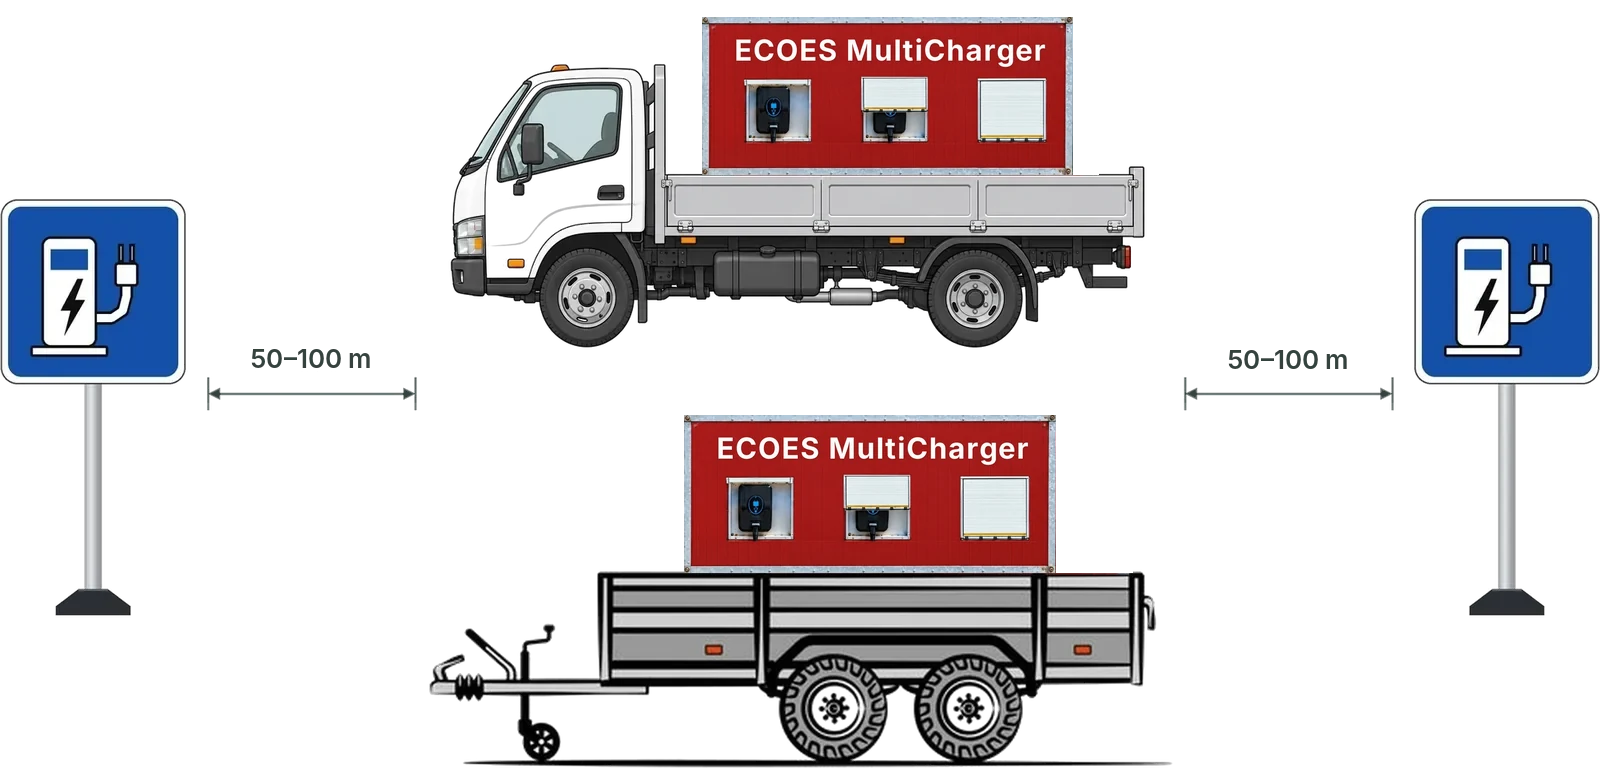
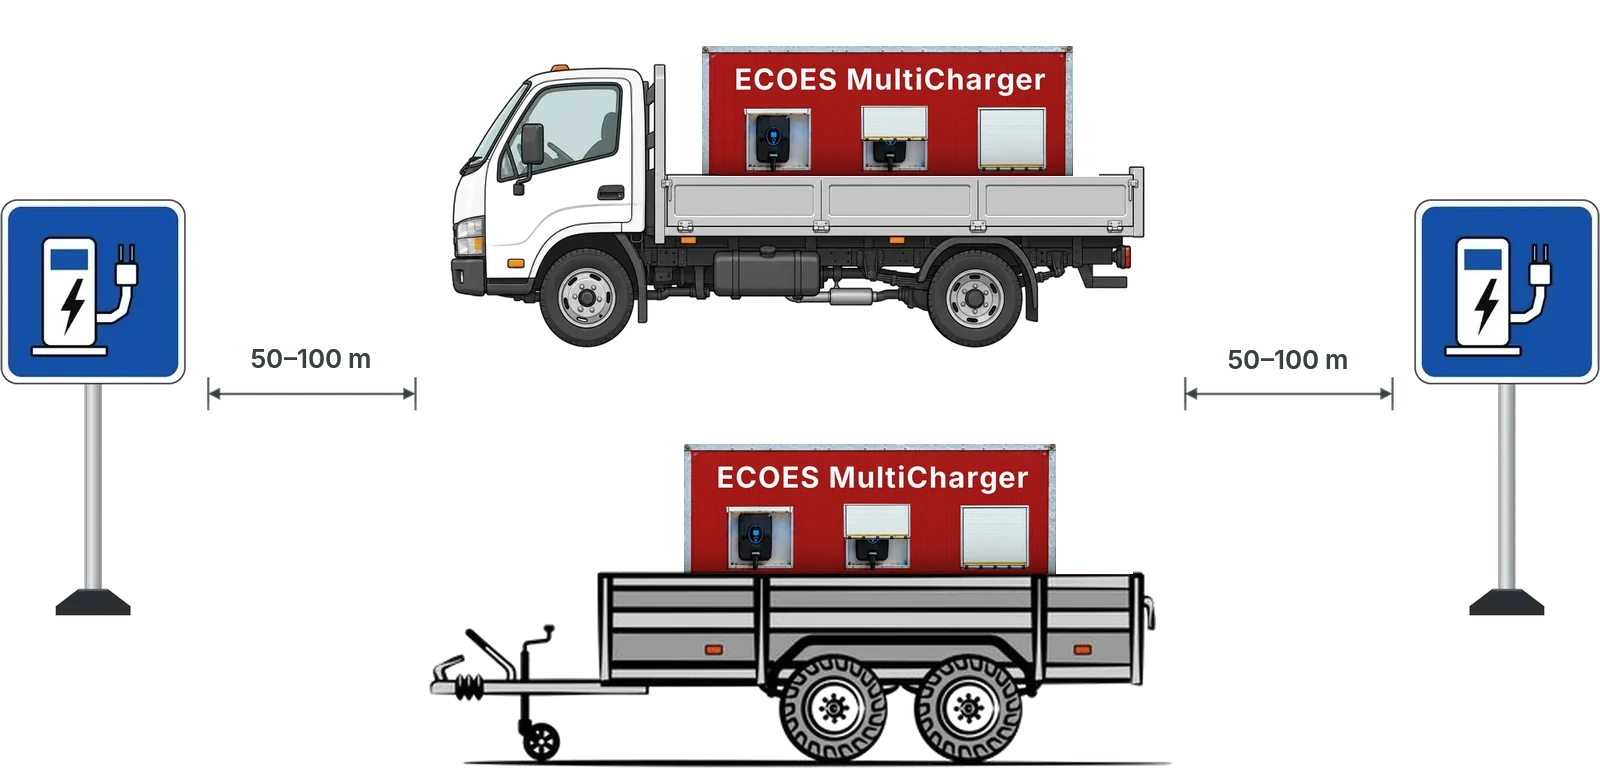
Box scene: the box set inside the truck bed and the trailer
The box now stands behind the side boards (its bottom hidden, the hatches
whole), with the bed walls' shade on its lower part and a narrow shadow
under the boards' top rail.

Claude-Session: https://claude.ai/code/session_01GEpPHxRAoV4DXBRX1UR8qC

Changed region(s): [[0.4375, 0.0, 0.6875, 0.25], [0.4062, 0.5312, 0.6875, 0.75]]

diff --git a/CLAUDE.md b/CLAUDE.md
@@ -93,6 +93,6 @@ History: v1 (2026-11-03 morning, the impeccable roll's "special-equipment body":
 - Home strengths (9 panes) quote the client's own headings and sentences from the Franchise, MultiCharger and Box pages (EN translations ours); the payback compartment and the load meter use the client's MultiCharger table (gross profit per month = per day × 30).
 - Financing (`financing/`, client 2026-11-12, their Word document for https://franchise.ecoes.eu/financing/; "a new section 'Finance'", named Financing / Финансиране in the menu): head = the title + "Get an offer" (`?topic=franchise`) beside the globe drawing (the About us head layout, `.page-hero--about.page-hero--financing`); `.split--financing`: the client's intro sentence as the sticky heading (`.section-title--sub`, smaller there: 20–26px), the four options as `ol.pillars.pillars--numbered` in a glass pane (`.cert-pane`), "Конкретните финансови параметри…" as `.notice`; `.closing` with the client's two closing sentences (lead + statement) and Pre-order + Get an offer. BG verbatim, EN ours. Fixed and reported: title and closing sentences from capitals to sentence case (as on the other pages); the colons after the four item titles dropped (they are headings now); the product names in regular weight, only "50% от покупната цена" bold. Buy-back condition (client, 2026-11-13: buy-back only after the product is fully paid): a sentence after item 4, our wording, approved: "Обратното изкупуване е възможно само след като франчайзополучателят е изплатил изцяло покупната цена, включително всички разсрочени или лизингови вноски." (EN "Buy-back is possible only once the franchisee has paid the full purchase price, including all instalments or lease payments."), the condition in bold like the 50%. Pointed out to the client: with a lease longer than 3 years the unit is paid off after the 3-year window, so no buy-back unless repaid early (the window could count from full payment instead).
 - MultiCharger Box update (client, 2026-11-15, their Word file ECOES_MultiCharger_Box.docx with the changes in red; "replace the marked text in its place, don't make up your own"): 120 kW with three DC chargers (1 x 120, 2 x 60, 3 x 40 kW) instead of 60 kW with two; new #what text (mounted permanently at a site, on a trailer or a truck; a paragraph on the sites it suits; "MultiCharger Box работи автоматично и няма нужда от оператор." in bold; the old paragraph on one vs two chargers is gone); #mobility "до работещ обект, на малък камион или на ремарке", "по-евтина" (no longer "около 2 пъти"), "Европа, Африка, Азия и Латинска Америка"; backup 120 kW; gross profit per day 172,80 / 432 / 864 / 1.296 / 1.728 EUR (x 30 a month, x 12 a year), the line "(120 kW x 0,60 EUR/kWh x 24 h = 1.728 EUR/ден …)" under the table; price comparison: a box van (was a taxi) about 4.000,00 EUR a month, payback about 5 years, vs the Box at 50%: 25.920,00 EUR, about 5 months. Fixed and reported: 10% row 5.160,00 / 61,920,00 → 5.184,00 / 62.208,00 (172,80 x 30 and x 12, as the other columns and the meter compute); "1.720" → "1.728" in the formula line; "4.000,00 на месец" + EUR; "се монтира за стационарно" → "стационарно"; "от електрическата инфраструктура" ("от" missing); "е не плащате" → "и не плащате"; "по евтина" → "по-евтина"; "подходяща е за държави" ("за" missing); commas ("MultiCharger, който", "генератор, захранващ", "обекти, в които", "обекти, намиращи се", "деня, в който"); "Бюджетният"; "3 x 40 kW". Our wording to match: the head statement, the key figures (the "≈ 2 пъти" chip became "без оператор / работи автоматично"), the meta descriptions and the Home offer card. Pictures as in the document: the Box front with three hatches (the site's own sharper version of the same panel, `assets/img/multicharger/side-chargers-*`) in #what, the price comparison and the Home card; the truck/trailer scene with the new box (`assets/img/box/scene-box-*`, the old box taken out above the side boards, the panel set on them as in the document); the new figure "ECOES MultiCharger Box в стационарен режим" (`assets/img/box/stationary-*`: shop with restaurant sign and chef menu, petrol-station, hotel and supermarket marks and the Box, recomposed on white at the document's positions, `.shot--photo`); the van `assets/img/box/cut-van-444.webp`. The page-head photo (`head-box-*`, truck at dusk) still shows the old box with two hatches: told the client. The PDF presentation was rebuilt the same day (slides 13–14).
-- ECOES MultiCharger Mobile and three chargers everywhere (client, 2026-11-16: "we changed the concept and don't offer two chargers; one is ECOES MultiCharger Mobile, the other stays Box"): every "ECOES MultiCharger" / "MultiCharger" that names the mobile product became "ECOES MultiCharger Mobile" / "MultiCharger Mobile" on every page EN + BG (titles, meta, the Products dropdown, menu, footer, headings, texts, alt texts, form choices and subjects; 259 places); EN "the mobile ECOES MultiCharger" → "the ECOES MultiCharger Mobile", "MultiChargers" → "MultiCharger Mobile units"; the announcement "Продажбите на ECOES MultiCharger ще започнат през 2027 г." (Home ×2, Franchise ×2, Mobile, Box) now names both: "… ECOES MultiCharger Mobile и ECOES MultiCharger Box …" (reported). URLs stay (/multicharger/: shared links, ads); the lettering on the product pictures stays "ECOES MultiCharger" (told the client). Pictures: the Box head photo with three hatches (`head-box3-*`: the photo's own hatches, closed | charger | charger in use, centred under the lettering; the cable re-routed from the right hatch into the photo's cable below the side board), the LPG container with three (`cut-lpg-container3-*`, in the face's perspective), the box centred on the truck and trailer beds in `scene-box-*` (client: "exactly in the middle"); the old two-hatch files removed (v2/cut-box-*, box/cut-scene-*, v2/head-box-*, box/cut-lpg-container-*, and the unused cut-taxi-*). Checked: the hero, the Mobile head, on-truck/on-trailer, the containers, the hologram drawing and both Defense photos already show three. `tools/recolor_jobs.py` would recreate the old two-hatch pictures from the v2 branch: don't rerun it for those. The presentation was rebuilt the same day.
+- ECOES MultiCharger Mobile and three chargers everywhere (client, 2026-11-16: "we changed the concept and don't offer two chargers; one is ECOES MultiCharger Mobile, the other stays Box"): every "ECOES MultiCharger" / "MultiCharger" that names the mobile product became "ECOES MultiCharger Mobile" / "MultiCharger Mobile" on every page EN + BG (titles, meta, the Products dropdown, menu, footer, headings, texts, alt texts, form choices and subjects; 259 places); EN "the mobile ECOES MultiCharger" → "the ECOES MultiCharger Mobile", "MultiChargers" → "MultiCharger Mobile units"; the announcement "Продажбите на ECOES MultiCharger ще започнат през 2027 г." (Home ×2, Franchise ×2, Mobile, Box) now names both: "… ECOES MultiCharger Mobile и ECOES MultiCharger Box …" (reported). URLs stay (/multicharger/: shared links, ads); the lettering on the product pictures stays "ECOES MultiCharger" (told the client). Pictures: the Box head photo with three hatches (`head-box3-*`: the photo's own hatches, closed | charger | charger in use, centred under the lettering; the cable re-routed from the right hatch into the photo's cable below the side board), the LPG container with three (`cut-lpg-container3-*`, in the face's perspective), the box centred on the truck and trailer beds in `scene-box-*` (client: "exactly in the middle") and then set inside them (client, same day: "it must show that it is inside"): drawn behind the vehicles, 28 px of its bottom hidden by the side boards (the hatches stay whole), its lower part shaded by the bed walls (up to 40 % darker at the boards, fading over ~16 px) with a narrow shadow under the boards' top rail; the old two-hatch files removed (v2/cut-box-*, box/cut-scene-*, v2/head-box-*, box/cut-lpg-container-*, and the unused cut-taxi-*). Checked: the hero, the Mobile head, on-truck/on-trailer, the containers, the hologram drawing and both Defense photos already show three. `tools/recolor_jobs.py` would recreate the old two-hatch pictures from the v2 branch: don't rerun it for those. The presentation was rebuilt the same day.
 - Visualisation changes made from the MultiCharger Box Word file (v3–v5): LPG & PNG (methane) heading and PNG section, "два вида гориво", container caption "цистерна", fuel field "Diesel, LPG, PNG (methane)" in all three forms; the client's new truck drawing replaced the dreamstime one (box lowered behind the side boards on truck and trailer).
 - Asked/reported: investment comparison (taxi at 100% about 2,800 EUR/month vs. Box at 50% about 12,960) – please confirm the taxi figure; PNG paragraph fixes (commas, "най-икономичният", "Gas – methane").
